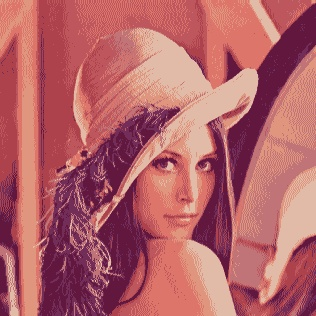
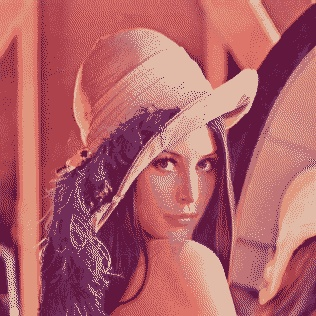
fix error diffusion

diff --git a/hw1/1.py b/hw1/1.py
@@ -74,8 +74,8 @@ def findClosestColor(pixel, colorMap):
 def addError(pixel, error):
     # for BGR seperately
     for i in range(3):
-        # clamp to 0-255
-        pixel[i] = max(0, min(pixel[i] + error[i], 255))
+        # clamp to 0-1
+        pixel[i] = max(0, min(pixel[i] + error[i], 1))
 
 def errorDiffusionDithering(image, colorMap, n):
     # define height and width for the image
@@ -98,13 +98,12 @@ def errorDiffusionDithering(image, colorMap, n):
             # apply error
             if colIndex + 1 < w:
                 addError(image[rowIndex][colIndex + 1], (7 / 16) * error)
-            # better result without this
-            # if rowIndex + 1 < h:
-            #     addError(image[rowIndex + 1][colIndex], (5 / 16) * error)
-            #     if colIndex - 1 >= 0:
-            #         addError(image[rowIndex + 1][colIndex - 1], (3 / 16) * error)
-            #     if colIndex + 1 < w:
-            #         addError(image[rowIndex + 1][colIndex + 1], (1 / 16) * error)
+            if rowIndex + 1 < h:
+                addError(image[rowIndex + 1][colIndex], (5 / 16) * error)
+                if colIndex - 1 >= 0:
+                    addError(image[rowIndex + 1][colIndex - 1], (3 / 16) * error)
+                if colIndex + 1 < w:
+                    addError(image[rowIndex + 1][colIndex + 1], (1 / 16) * error)
 
     # tranform back
     image = np.array(image * 255, dtype=np.uint8)
